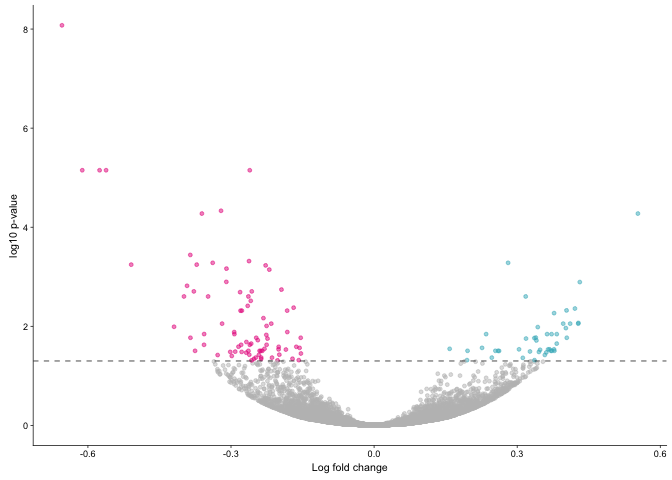
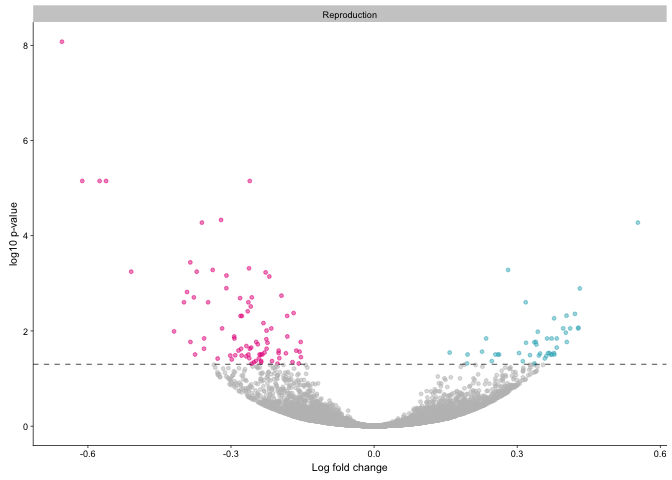
figshare

diff --git a/scripts/05_Ceolin.md b/scripts/05_Ceolin.md
@@ -1,5 +1,5 @@
-Ceolin et al. data reanalyzed
------------------------------
+Reproduction of and comparison to the Ceolin et al. 2017 study.
+---------------------------------------------------------------
 
 From [Ceolin L, Bouquier N, Vitre-Boubaker J, Rialle S et al. Cell
 Type-Specific mRNA Dysregulation in Hippocampal CA1 Pyramidal Neurons of
@@ -13,21 +13,57 @@ data](https://www.ncbi.nlm.nih.gov/geo/query/acc.cgi?acc=GSE94559).
 The parts of their paper that I reproduced are visuzalized in Figure 2
 and 3 of Ceolin et al 2017. Ceolin's fluoresence staining of the CA1
 provided the inspriation for the color palette. I reproduced the heatmap
-and part of the GO anlsysis but not that of FMRP binding.
+and part of the GO anlsysis but not that of FMRP binding. Then, I
+compared this "reproduced analysis of the Ceolin data" to my primary
+results to identify genes that robustly change expression in CA1
+following *Fmr1* gene knock out.
 
 ![](../figures/fig3-02.png)
 
-I found roughly the same scale of gene expression changes, which is how
-I stumbled upon the paper in the first place (by googling Serpina3a and
-Fmr1), However, my list does have fewer significant genes. Most of the
-genes were identified by both analytical methods indicating a robust
-reponse. Our GO anlaysese highlighted different patterns. Ceolin
-highlights the molecular function enriched pathways in FMR1-KO mice, but
-my analysis provided stronger evidence for a deletion of calcium
-receptor related functions. THis suggests a role for dys-regulation of
-calcium signallying in the hippocampus of Fragile X Syndrom patients.
+I reproduced the data from the Ceolin et al. 2017 which used
+fluorescence labeling to selectively sequence pyramidal neurons in the
+CA1 subfield of the hippocampus from WT and FMR1-KO mice (Fig 2A). My
+reproduction of their data produced a very similar pattern of gene
+expression and list of differentially expressed genes with roughly equal
+up and downregulation of expression. Then, I asked how many of their
+differentially expressed genes are differentially expressed in my study.
+I found found that downregulation of expression of Cacna1g, Efcab6,
+Serpina3n, and Sstr3 was consistent in both the Coelin data and in my
+data (Fig 2B). Next, I check to see if the genes that I calculated to be
+significantly different als identified by Coelin and described as
+significantly different. I determined that 39 of top 45 most significant
+(p &lt; 0.01) genes in my analysis make up over half of the most
+significant (p &lt; 0.05) genes of from the Ceolin study (Fig 2C). Of my
+list of "replicated" 39 differentially expressed genes, two genes
+(Serpina3a and Efcab6) were also identified in my analysis of
+differential expression (Fig 2D). My GO analysis highlighted different
+but also overlapping patterns. The Ceolin study highlights the molecular
+function enriched pathways in FMR1-KO mice, but my analysis provided
+stronger evidence for a deletion of calcium receptor-related functions
+(Fig 2E). This suggests a role for dysregulation of calcium signaling in
+the hippocampus of Fragile X Syndrome patients and is consistent with my
+research findings.
 
-![](../figures/fig3-01.png)
+![](../figures/fig3-01.png) Reproducing the Ceolin study for direct
+comparison of results. A) Graphical representation of the samples for
+the Ceolin et al. 2017 study examining CA1 expression in WT and FMR1-KO
+mice. B) Reproduction: This volcano plot shows that my analysis of the
+Ceolin et al count data identified 88 genes that are up-regulated in
+FMR1-KO mice and the 146 genes that are up-regulated in WT mice a p &lt;
+0.05. Comparison: The gene expression and significance values from the
+Ceolin data are color-coded by the levels of significance from my
+results described in Fig 2.8. Four genes that are upregulated in WT in
+my study were also upregulated in my reproduction of the Ceolin data. C)
+Analysis showing that 39 of top 45 most significant (p &lt; 0.01) genes
+in my reproduction of the analysis, make up over half of the top most
+significant (p &lt; 0.05) genes of from the Ceolin study. D)
+Hierarchical clustering shows the names and expression patterns of those
+same significant genes. D) GO analysis showing a very similar pattern of
+depletion of calcium channel activity as was shown in Fig. 2.8). In
+contrast, Ceolin detected enrichment of ribosomal processes in response
+to FMR1-KO in CA1 pyramidal neurons. Legend) Teal: Enriched in FMR1-KO,
+pink: enriched in WT, grey: genes with insignificant expression, black:
+genes whos expression was not calculated in my original analysis
 
 Here is the analysis, including the heatmap as well as a PCA plot and
 maybe some statistics. The GO analysis is in the subdirectory
@@ -341,16 +377,8 @@ Create list of p-values for all genes
 
     write.csv(GOpvals, "./06_GO_MWU/05_Ceolin_GOpvals.csv", row.names = F)
 
-### Serpina3n was in my list, right? and Ccnd1?
-
-    # Use log(p=0.05)
-    -log10(0.05)
-
-    FALSE [1] 1.30103
-
-    -log10(0.1)
-
-    FALSE [1] 1
+Volcanos
+--------
 
     res <- results(dds, contrast =c("genotype", "FMR1_KO", "WT"), independentFiltering = T, alpha = 0.1)
     summary(res)
@@ -399,6 +427,8 @@ Create list of p-values for all genes
 
     data <- data.frame(gene = row.names(res), pvalue = -log10(res$padj), lfc = res$log2FoldChange)
     data <- na.omit(data)
+
+    data$wrap <- "Reproduction"
     data <- data %>%
       mutate(color = ifelse(data$lfc > 0 & data$pvalue > 1.3, 
                             yes = "FRM1_KO", 
@@ -426,12 +456,13 @@ Create list of p-values for all genes
       ylab(paste0("log10 p-value")) +       
       theme(panel.grid.minor=element_blank(),
             legend.position = "none", # remove legend 
-            panel.grid.major=element_blank())
+            panel.grid.major=element_blank()) +
+      facet_wrap(~wrap)
     volcano
 
 ![](../figures/05_Ceolin/volcanos-2.png)
 
-    pdf(file="../figures/05_Ceolin/volcano.pdf", width=1.5, height=1.75)
+    pdf(file="../figures/05_Ceolin/volcano.pdf", width=1.25, height=1.85)
     plot(volcano)
     dev.off()
 
@@ -592,6 +623,8 @@ my list at 0.01 and identified the overlap. Then I made a heatmap.
              filename = "../figures/05_Ceolin/HeatmapOverlap.pdf"
              )
 
+    pointcolor <- read.csv("../results/FMR1_CA1_rnaseq.csv")
+
     res <- results(dds, contrast =c("genotype", "FMR1_KO", "WT"), independentFiltering = T, alpha = 0.1)
     summary(res)
 
@@ -639,43 +672,90 @@ my list at 0.01 and identified the overlap. Then I made a heatmap.
 
     data <- data.frame(gene = row.names(res), pvalue = -log10(res$padj), lfc = res$log2FoldChange)
     data <- na.omit(data)
-    data <- data %>%
-      mutate(color = ifelse(data$lfc > 0 & data$pvalue > 1.3, 
-                            yes = "FRM1_KO", 
-                            no = ifelse(data$lfc < 0 & data$pvalue > 1.3, 
-                                        yes = "WT", 
-                                        no = "none")))
-    top_labelled <- top_n(data, n = 5, wt = pvalue)
 
-    topGene <- rownames(res)[which.min(res$padj)]
-    plotCounts(dds, gene = topGene, intgroup=c("genotype"))
+    tempdata <- left_join(data, pointcolor, by = "gene")
 
-![](../figures/05_Ceolin/suzyvolcano-1.png)
+    ## Warning in left_join_impl(x, y, by$x, by$y, suffix$x, suffix$y): joining
+    ## factors with different levels, coercing to character vector
+
+    tempdata$color <- as.character(tempdata$color)
+    tempdata$color[is.na(tempdata$color)] <- "absent"
+    tempdata$color <- as.factor(tempdata$color)
+    levels(tempdata$color) <- list(FMR1KO="FMR1", WT="WT", NS = "none",absent="absent")
+
+    tempdata$wrap <- "Comparison"
+
 
     # Color corresponds to fold change directionality
 
-    volcano <- ggplot(data, aes(x = lfc, y = pvalue)) + 
-      geom_point(aes(color = factor(color)), size = 1, alpha = 0.5, na.rm = T) + # add gene points
+    suzyvolcano <- ggplot(tempdata, aes(x = lfc.x, y = pvalue.x)) + 
+      geom_point(aes(color = color, shape = color, size = color), alpha = 0.5, na.rm = T) + # add gene points
       theme_cowplot(font_size = 8, line_size = 0.25) +
       geom_hline(yintercept = 1.3,  size = 0.25, linetype = 2) + 
-      scale_color_manual(values = c("FRM1_KO" = "#41b6c4",
+      scale_color_manual(values = c("FMR1KO" = "#41b6c4",
                                     "WT" = "#e7298a", 
-                                    "none" = "grey")) + 
+                                    "NS" = "grey",
+                                    "absent" = "black")) + 
       #scale_y_continuous(limits=c(0, 8)) +
       scale_x_continuous(name="Log fold change")+
-      ylab(paste0("log10 p-value")) +       
+      scale_shape_manual(values=c(16, 16, 16, 16)) +
+      scale_size_manual(values=c(2,2, 0.5, 0.5)) +
+     scale_y_continuous(name=NULL,
+                        labels = NULL)+      
       theme(panel.grid.minor=element_blank(),
             legend.position = "none", # remove legend 
+            panel.grid.major=element_blank()) +
+      facet_wrap(~wrap)
+    suzyvolcano
+
+![](../figures/05_Ceolin/suzyvolcano-1.png)
+
+    pdf(file="../figures/05_Ceolin/suzyvolcano.pdf", width=1, height=1.85)
+    plot(suzyvolcano)
+    dev.off()
+
+    ## quartz_off_screen 
+    ##                 2
+
+    legendvolcano <- ggplot(tempdata, aes(x = lfc.x, y = pvalue.x)) + 
+      geom_point(aes(color = color, shape = color, size = color), alpha = 0.5, na.rm = T) + # add gene points
+      theme_cowplot(font_size = 9, line_size = 0.25) +
+      geom_hline(yintercept = 1.3,  size = 0.25, linetype = 2) + 
+      scale_color_manual(values = c("FMR1KO" = "#41b6c4",
+                                    "WT" = "#e7298a", 
+                                    "NS" = "grey",
+                                    "absent" = "black")) + 
+      #scale_y_continuous(limits=c(0, 8)) +
+      scale_x_continuous(name="Log fold change")+
+      scale_shape_manual(values=c(16, 16, 16, 16)) +
+      scale_size_manual(values=c(2,2, 0.5, 0.5)) +
+     scale_y_continuous(name=NULL,
+                        labels = NULL)+      
+      theme(panel.grid.minor=element_blank(),
+            #legend.position = "none", # remove legend 
             panel.grid.major=element_blank())
-    volcano
+    legendvolcano
 
 ![](../figures/05_Ceolin/suzyvolcano-2.png)
 
-    # Male WT vs FMR1 colored for Rayna's data
-    plot (data$lfc, data$pvalue, pch = 19, 
-          cex =1, cex.axis = 1.8, cex.lab = 1.5, 
-          ylab = "Lods", xlab = "Log fold change X-lineage vs non-X-lineage (Male)", 
-          #xlim = c(-2,2), ylim = c(-7,9), 
-          main= "Male Analysis of Lineage")
+    pdf(file="../figures/05_Ceolin/legendvolcano.pdf", width=1, height=1.75)
+    plot(legendvolcano)
+    dev.off()
 
-![](../figures/05_Ceolin/suzyvolcano-3.png)
+    ## quartz_off_screen 
+    ##                 2
+
+    # list top deges
+    mytopgenes <- tempdata %>%
+      filter(color %in% c("WT", "FMR1"), pvalue.x > 1.3)
+    head(mytopgenes)
+
+    ##        gene pvalue.x      lfc.x pvalue.y      lfc.y color       wrap
+    ## 1   Cacna1g 1.883471 -0.2933235 1.002905 -0.5563997    WT Comparison
+    ## 2    Efcab6 5.150028 -0.5619258 1.003320 -0.6767416    WT Comparison
+    ## 3 Serpina3n 8.075498 -0.6544227 1.002905 -0.4769215    WT Comparison
+    ## 4     Sstr3 1.339407 -0.2368854 1.003320 -0.6729482    WT Comparison
+
+    mytopgenes$gene
+
+    ## [1] "Cacna1g"   "Efcab6"    "Serpina3n" "Sstr3"

diff --git a/scripts/08_results.md b/scripts/08_results.md
@@ -225,4 +225,4 @@ is consistent with my research findings.
 ![Fig. 2.9. Reproducing the Ceolin study for direct comparison of
 results.](../figures/fig3-01.png)
 
-##### A) Graphical representation of the samples for the Ceolin et al. 201732 study examining CA1 expression in WT and FMR1-KO mice. B) Volcano plot showing enrichment of 88 genes that are up-regulated in FMR1-KO mice and the 146 genes that are up-regulated in WT mice. C) Hierarchical clustering shows the names and expression patterns of those same significant genes. D) GO analysis showing a very similar pattern of depletion of calcium channel activity as was shown in Fig. 2.4C). In contrast, Ceolin detected enrichment of ribosomal processes in response to FMR1-KO in CA1 pyramidal neurons.A) Graphical representation of the samples for the Ceolin et al. 201732 study examining CA1 expression in WT and FMR1-KO mice. B) Volcano plot showing enrichment of 88 genes that are up-regulated in FMR1-KO mice and the 146 genes that are up-regulated in WT mice. C) Hierarchical clustering shows the names and expression patterns of those same significant genes. D) GO analysis showing a very similar pattern of depletion of calcium channel activity as was shown in Fig. 2.4C). In contrast, Ceolin detected enrichment of ribosomal processes in response to FMR1-KO in CA1 pyramidal neurons.
+##### A) Graphical representation of the samples for the Ceolin et al. 201732 A) Graphical representation of the samples for the Ceolin et al. 2017 study examining CA1 expression in WT and FMR1-KO mice. B) Reproduction: This volcano plot shows that my analysis of the Ceolin et al count data identified 88 genes that are up-regulated in FMR1-KO mice and the 146 genes that are up-regulated in WT mice a p &lt; 0.05. Comparison: The gene expression and significance values from the Ceolin data are color-coded by the levels of significance from my results described in Fig 2.8. Four genes that are upregulated in WT in my study were also upregulated in my reproduction of the Ceolin data. C) Analysis showing that 39 of top 45 most significant (p &lt; 0.01) genes in my reproduction of the analysis, make up over half of the top most significant (p &lt; 0.05) genes of from the Ceolin study. D) Hierarchical clustering shows the names and expression patterns of those same significant genes. D) GO analysis showing a very similar pattern of depletion of calcium channel activity as was shown in Fig. 2.8). In contrast, Ceolin detected enrichment of ribosomal processes in response to FMR1-KO in CA1 pyramidal neurons. Legend) Teal: Enriched in FMR1-KO, pink: enriched in WT, grey: genes with insignificant expression, black: genes whos expression was not calculated in my original analysis
